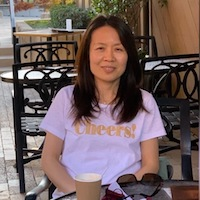
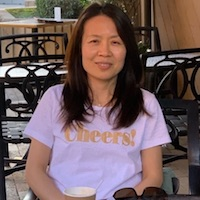
add group-email and easychair link, update Linsey Pang pic

diff --git a/_includes/call.html b/_includes/call.html
@@ -8,14 +8,11 @@
 	                        <div class="col-lg-8 col-lg-offset-2 text-justify">
 	                            <p class="large text-muted"> 
 	                            	<p> This workshop is targeted to provide academic and industrial researchers a platform to present their latest works, share research ideas, present and discuss various challenges. Hence, we invite two kinds of contributions: <b>full research papers</b> (up to 10 pages) and <b>short papers</b> (up to 5 pages). Submissions must be in English, as PDF file, formated according to the new ACM format published in <a href="https://www.acm.org/publications/proceedings-template">ACM guidelines</a>, selecting the generic two-column  “sigconf” sample (including references and figures). The papers can represent reports of original research, preliminary research results, or proposals for new work. The review process is single-blind.  Papers will be evaluated according to their significance, originality, technical content, style, clarity, relevance to the workshop, and likelihood of generating discussion. Authors should note that changes to the author list after the submission deadline are not allowed without permission from the PC Chairs.  At least one author of each accepted paper is required to register for, attend, and present the work at the workshop. </p>
-	                            	<p>
-	                            	<b>All papers must be submitted via EasyChair at </b> <a href="https://easychair.org/conferences/?conf=isir-ecom" target="\_blank">https://easychair.org/conferences/?conf=isir-ecom</a>.
-	                            	</p>
 
 <!-- <p>Papers presented at the workshop will be required to be uploaded to arXiv.org but will be considered non-archival, and may be submitted elsewhere (modified or not), although the workshop site will maintain a link to the arXiv versions. This makes the workshop a forum for the presentation and discussion of current work, without preventing the work from being published elsewhere.</p>
  -->
 
-								    <h5>Topics of interest includ but not limited to:</h5>
+								    <h5>Topics of interest include but not limited to:</h5>
 								    <ul>
 							  			<li>Query Understanding</li>
 										<ul>
@@ -63,7 +60,9 @@
 											<li>End-to-End solution for interactive and scalable search framework</li>
 										</ul>
 								    </ul>
-
+								    <p>
+								    <h5>All papers must be submitted via EasyChair at </h5> <a href="https://easychair.org/conferences/?conf=isirecom2022" target="\_blank">https://easychair.org/conferences/?conf=isirecom2022</a>.
+	                            	</p>
 							 </div>
 	                    </div>
 	                </div>

diff --git a/_includes/about.html b/_includes/about.html
@@ -28,7 +28,7 @@
                                 <p>
                                     To handle sudden change in buyers’ behavior, industries adopted existing sub-optimal in- formation retrieval techniques for various eCommerce tasks. Parallelly, they also started exploring/researching for better solutions and in dire need of help from research community
                                 </p>
-                                <p> The objective of this workshop is to bring a diverse set of practitioners and researchers together and encourage them to share their ideas, challenges & solutions and research. This workshop will provide a forum to discuss and learn the latest trends for interactive and scalable information retrieval approaches for eCommerce. It will provide academic and industrial researchers a platform to present their latest works, share research ideas, present and discuss various challenges, and identify the areas where further research is needed. 
+                                <p> The objective of this workshop is to bring a diverse set of practitioners and researchers together and encourage them to share their ideas, challenges & solutions and research. This workshop will provide a forum to discuss and learn the latest trends for interactive and scalable information retrieval approaches for eCommerce.
                                 </p>
                         </div>
                     </div>

diff --git a/_includes/footer.html b/_includes/footer.html
@@ -11,7 +11,7 @@
                 <div class="col-md-4">
                     <ul class="list-inline quicklinks">
                         <li>
-                            <!--Contact us at: <a href="mailto:lnd4ir@easychair.com">lnd4ir@easychair.com</a> -->
+                            <p class="large text-muted">Please send questions and enquiries to <a href="mailto:isir-wsdm@googlegroups.com">isir-wsdm@googlegroups.com</a>.</p>
                         </li>
                     </ul>
                 </div>

diff --git a/_includes/sponsors.html b/_includes/sponsors.html
@@ -4,7 +4,7 @@
             <div class="row">
                 <div class="col-lg-12 text-center">
                     <h2 class="section-heading">Sponsors</h2>
-                    <!-- <h3 class="section-subheading text-muted"></h3> -->
+                    <?????-- <h3 class="section-subheading text-muted"></h3> -->
 <!--                         
                 </div>
             </div> 
